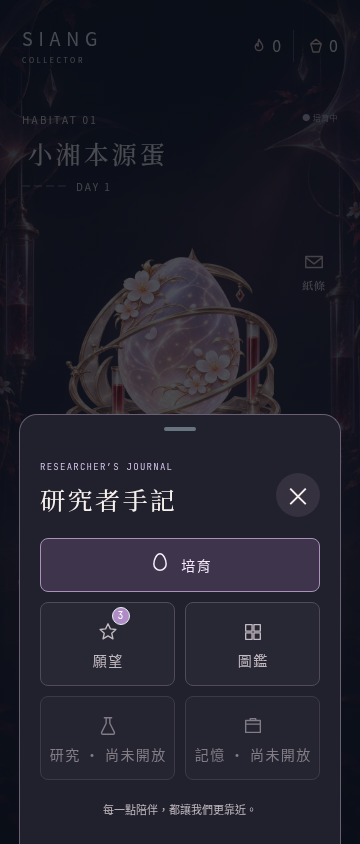
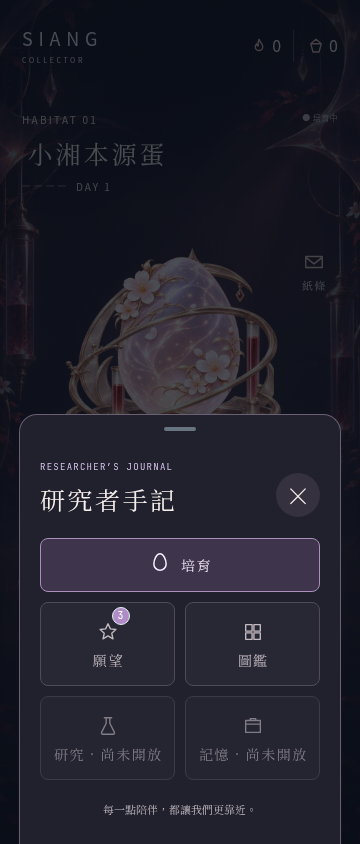
Unify all journal menu text with the interface display typeface

diff --git a/css/lobby.css b/css/lobby.css
@@ -67,13 +67,14 @@ body[data-view="home"] .app { min-height:max(760px,100svh); }
 .center-button span { font:400 14px/1.4 var(--font-display); letter-spacing:.1em; }
 .journal-icon { width:21px; height:21px; flex:none; stroke:currentColor; stroke-width:1.35; stroke-linecap:round; stroke-linejoin:round; }
 .drawer-heading h2 { font:400 25px/1.5 var(--font-display); letter-spacing:.1em; }
+.function-center .nav__item, .function-center .fine { font-family:var(--font-display); font-weight:400; }
 .btn,.mission-shoot { background:linear-gradient(135deg,#f3eded,#ded0e6); color:#302637; border-radius:4px; }
 .mission { background:#20232eef; border-color:#68616e66; border-radius:8px; }
 .mission.is-done { background:#2a2633; }
 .mission-reward,.mission-complete { color:#dfcee9; }
 .nav__item { border-radius:8px; background:#282834; border-color:#514b59; }
 .nav__item[aria-current="page"] { background:#3e344b; border-color:#aa90ba; color:#f5e9fa; }
-.function-center { background:#20212d; border-color:#6a5f73; border-radius:18px 18px 0 0; }
+.function-center { font-family:var(--font-display); background:#20212d; border-color:#6a5f73; border-radius:18px 18px 0 0; }
 .close-button { background:#35313f; }
 .sheet { background:#22222e; border-color:#756777; }
 .toast { background:#eee4ef; color:#362b3d; }

diff --git a/index.html b/index.html
@@ -14,7 +14,7 @@
 <link rel="icon" href="assets/icons/icon-192.png" type="image/png">
 <link rel="preconnect" href="https://fonts.googleapis.com">
 <link rel="preconnect" href="https://fonts.gstatic.com" crossorigin>
-<link rel="stylesheet" href="https://fonts.googleapis.com/css2?family=Cormorant+Garamond:wght@500;600&amp;family=JetBrains+Mono:wght@400;500&amp;family=Noto+Serif+TC:wght@500;700&amp;display=swap">
+<link rel="stylesheet" href="https://fonts.googleapis.com/css2?family=Cormorant+Garamond:wght@500;600&amp;family=JetBrains+Mono:wght@400;500&amp;family=Noto+Serif+TC:wght@400;500;700&amp;display=swap">
 <link rel="stylesheet" href="css/tokens.css">
 <link rel="stylesheet" href="css/app.css">
 <link rel="stylesheet" href="css/hud.css">
